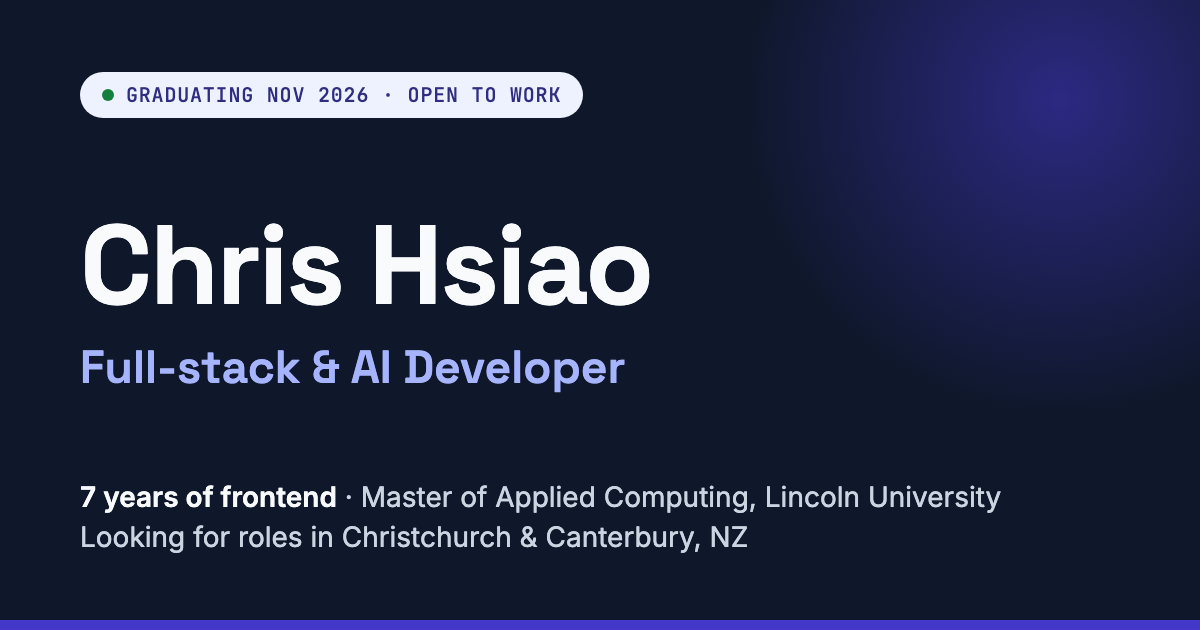
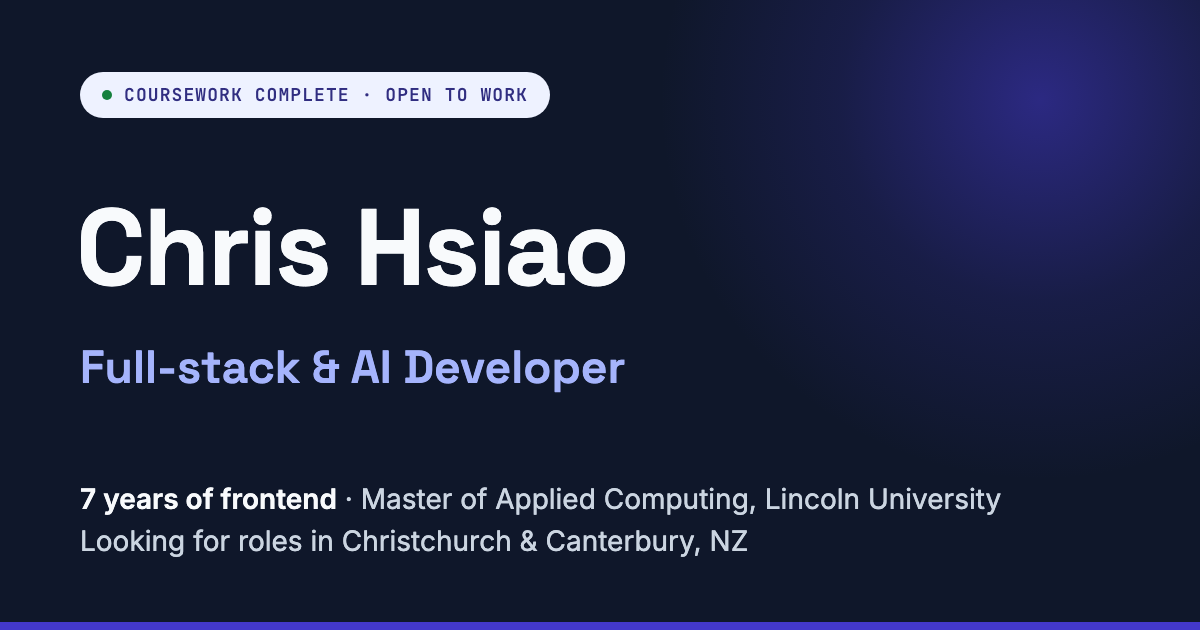
Update graduation wording and polish layout on phone and desktop
Wording (coursework is done, final results pending):
- "Graduating Nov 2026" -> "Coursework complete · Open to work" in the hero pill,
  intro, Contact, meta description and OG alt text
- Regenerate og-image.png with the new pill text
- Quick facts label "Studying" -> "Education"

Style polish:
- Project cards: card-sized crops of the chatbot and TodoFlow screenshots,
  and stop Astro centre-cropping covers to 800x360 (it cut off TodoFlow's left edge)
- Header: two rows on phones (name + CV, then links) instead of three; one row from 768px
- Contact: email button shows "Email me" with the address underneath
- About: photo is sticky on wide screens so the left column doesn't go empty

diff --git a/src/data/site.ts b/src/data/site.ts
@@ -8,5 +8,5 @@ export const site = {
   url: 'https://example.com',
   defaultTitle: 'Chris Hsiao — Full-stack & AI Developer',
   defaultDescription:
-    'Chris Hsiao is a frontend developer with seven years of experience, finishing a Master of Applied Computing at Lincoln University and looking for full-stack and AI developer roles in Christchurch and Canterbury, NZ.',
+    'Chris Hsiao is a frontend developer with seven years of experience, who has just completed the coursework for a Master of Applied Computing at Lincoln University, looking for full-stack and AI developer roles in Christchurch and Canterbury, NZ.',
 } as const;

diff --git a/src/content/projects/rag-chatbot.md b/src/content/projects/rag-chatbot.md
@@ -8,7 +8,7 @@ category: 'AI · Full-stack · Live'
 tags: ['React', 'FastAPI', 'Gemini API', 'ChromaDB', 'Vercel + Render']
 featured: false
 order: 2
-cover: ../../assets/projects/rag-chatbot.webp
+cover: ../../assets/projects/rag-chatbot-card.webp
 coverAlt: 'The Ask-Me-Anything chatbot: an AI assistant answering questions about Chris from his CV, with suggested questions and a message box'
 links:
   live: 'https://rag-chatbot-psi-liart.vercel.app/'

diff --git a/src/content/projects/todoflow.md b/src/content/projects/todoflow.md
@@ -8,7 +8,7 @@ category: 'Full-stack · Learning project'
 tags: ['FastAPI', 'Python', 'Vercel CI/CD']
 featured: false
 order: 3
-cover: ../../assets/projects/todoflow-board.jpg
+cover: ../../assets/projects/todoflow-card.jpg
 coverAlt: 'TodoFlow board view with lists for Shopping, Chores, To do and In progress, each holding labelled cards'
 links:
   live: 'https://todo-app-two-olive-85.vercel.app/'
